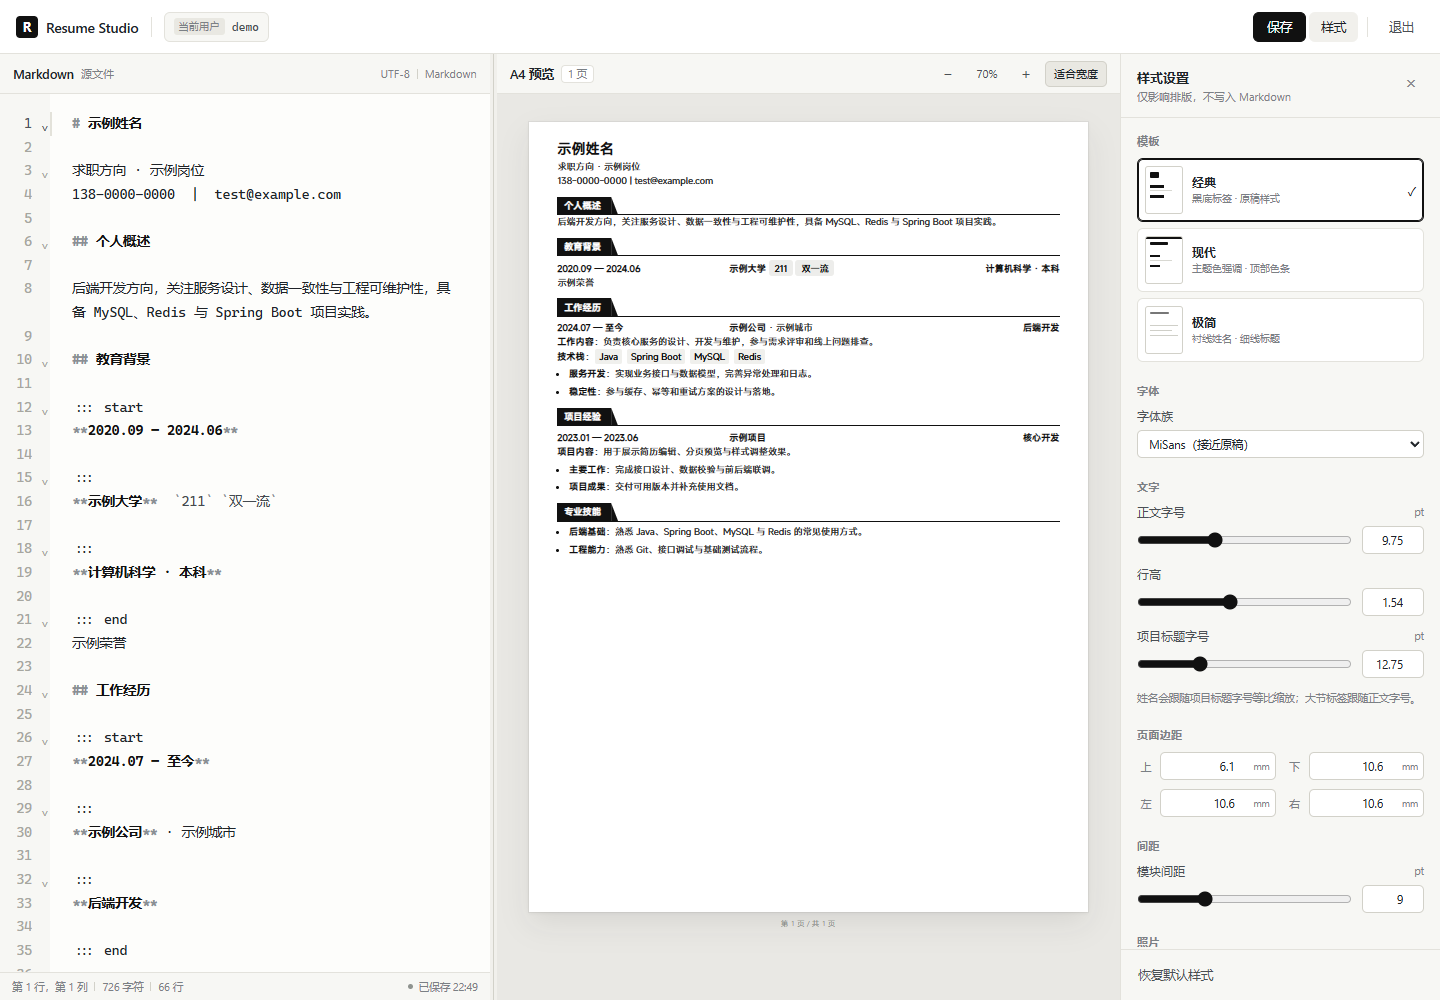
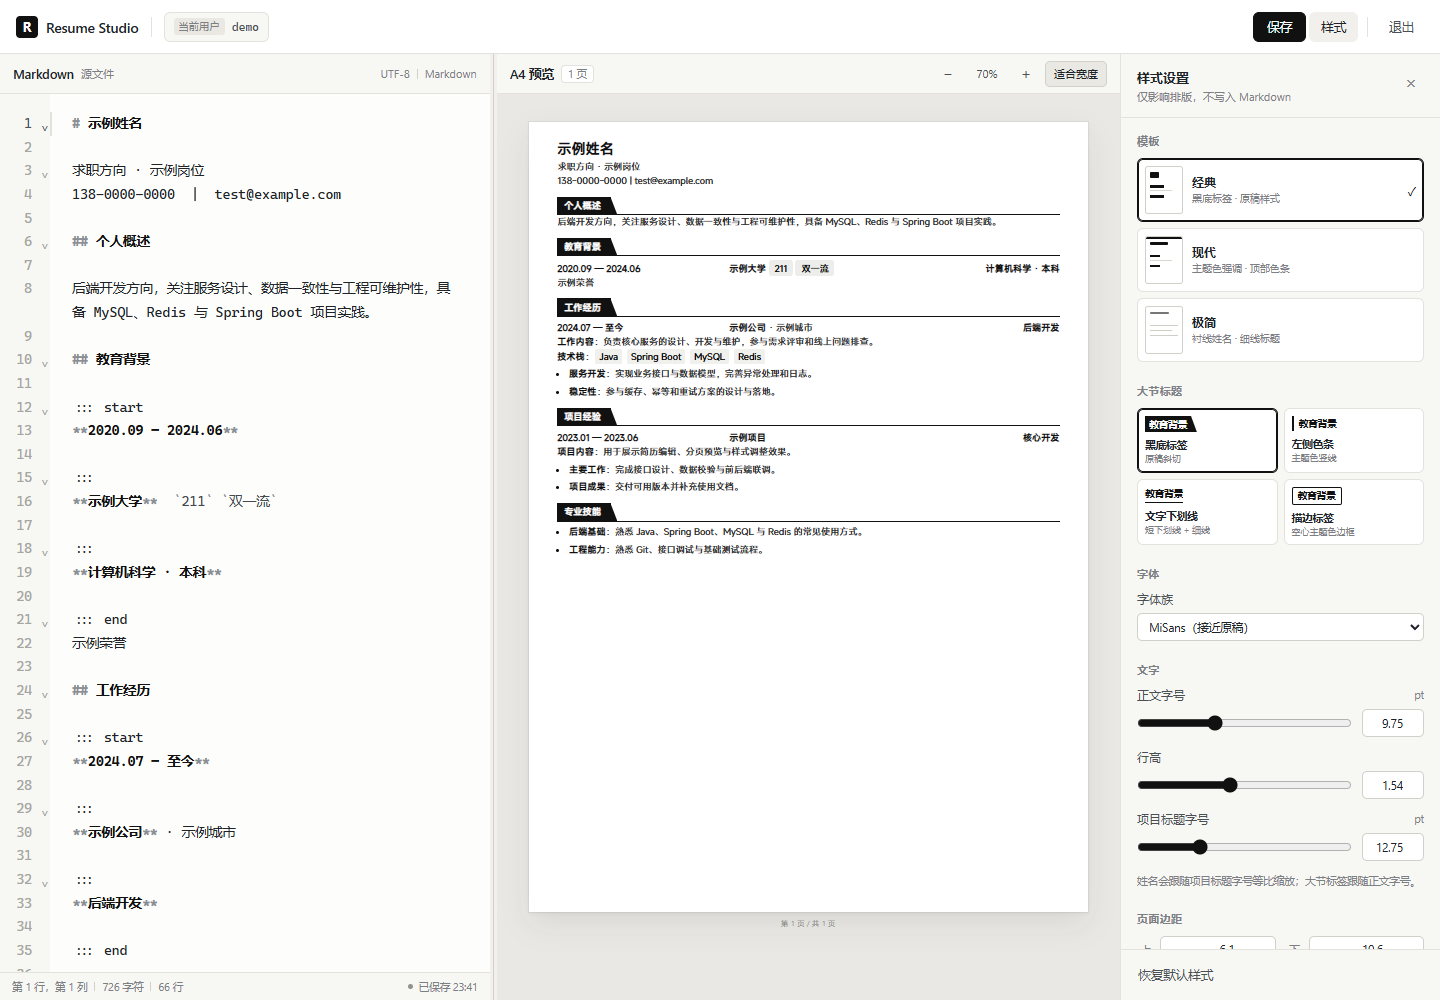
feat: add configurable section heading styles

Changed region(s): [[0.7812, 0.372, 1.0, 0.961], [0.9688, 0.62, 1.0, 0.651], [0.9375, 0.589, 0.9688, 0.62]]

diff --git a/src/resume/resume.css b/src/resume/resume.css
@@ -531,3 +531,142 @@
 .r-template--minimal .r-hr {
   border-top: 0.5pt solid #bbbbbb;
 }
+
+/* =========================================================
+   大节标题（## 教育背景 等）可切换样式
+   ========================================================= */
+
+/* 黑底斜切标签：文字块与斜切尾巴同色，并轻微重叠，消除 1px 接缝。 */
+.r-section-style--tab .r-section-tab {
+  display: inline-flex;
+  align-items: stretch;
+  max-width: 100%;
+  padding: 0;
+  border: 0;
+  background: transparent;
+  vertical-align: top;
+}
+
+.r-section-style--tab .r-section-tab-text {
+  display: block;
+  padding: 2.4pt 11pt 2.4pt 7.5pt;
+  background: var(--r-theme);
+  color: #ffffff;
+  font-size: var(--r-body);
+  font-weight: 700;
+  line-height: 1.5;
+  white-space: nowrap;
+}
+
+.r-section-style--tab .r-section-tab-tail {
+  display: block;
+  width: 7.5pt;
+  flex: 0 0 7.5pt;
+  margin-left: -0.8pt;
+  background: var(--r-theme);
+  clip-path: polygon(0 0, 100% 100%, 0 100%);
+}
+
+.r-section-style--tab .r-section-rule {
+  height: 0.75pt;
+  margin-top: -0.75pt;
+  background: var(--r-theme);
+  opacity: 1;
+}
+
+/* 左侧主题色竖线 + 轻分隔线 */
+.r-section-style--bar .r-section-tab {
+  display: block;
+  max-width: 100%;
+  padding-left: 7pt;
+  border-left: 3pt solid var(--r-theme);
+  background: transparent;
+}
+
+.r-section-style--bar .r-section-tab-text {
+  display: block;
+  padding: 0 0 1.8pt;
+  background: transparent;
+  color: #111111;
+  font-size: calc(var(--r-body) * 0.95);
+  font-weight: 700;
+  letter-spacing: 0.04em;
+  line-height: 1.45;
+  white-space: normal;
+}
+
+.r-section-style--bar .r-section-tab-tail {
+  display: none;
+}
+
+.r-section-style--bar .r-section-rule {
+  height: 0.6pt;
+  margin-top: 2.2pt;
+  background: var(--r-theme);
+  opacity: 0.22;
+}
+
+/* 文字短下划线 + 全宽细线 */
+.r-section-style--underline .r-section-tab {
+  display: block;
+  max-width: 100%;
+  border: 0;
+  background: transparent;
+}
+
+.r-section-style--underline .r-section-tab-text {
+  display: inline-block;
+  padding: 0 0 2.4pt;
+  border-bottom: 1.6pt solid var(--r-theme);
+  background: transparent;
+  color: #111111;
+  font-size: calc(var(--r-body) * 1.02);
+  font-weight: 700;
+  letter-spacing: 0.02em;
+  line-height: 1.4;
+  white-space: normal;
+}
+
+.r-section-style--underline .r-section-tab-tail {
+  display: none;
+}
+
+.r-section-style--underline .r-section-rule {
+  height: 0.5pt;
+  margin-top: 3pt;
+  background: #d8d8d2;
+  opacity: 1;
+}
+
+/* 空心主题色描边标签 */
+.r-section-style--outline .r-section-tab {
+  display: block;
+  max-width: 100%;
+  border: 0;
+  background: transparent;
+}
+
+.r-section-style--outline .r-section-tab-text {
+  display: inline-block;
+  padding: 1.7pt 8pt 1.9pt;
+  border: 0.9pt solid var(--r-theme);
+  border-radius: 2pt;
+  background: transparent;
+  color: var(--r-theme);
+  font-size: calc(var(--r-body) * 0.9);
+  font-weight: 700;
+  letter-spacing: 0.06em;
+  line-height: 1.4;
+  white-space: normal;
+}
+
+.r-section-style--outline .r-section-tab-tail {
+  display: none;
+}
+
+.r-section-style--outline .r-section-rule {
+  height: 0.5pt;
+  margin-top: 4pt;
+  background: var(--r-theme);
+  opacity: 0.18;
+}

diff --git a/src/resume/style.ts b/src/resume/style.ts
@@ -10,6 +10,8 @@ export type PhotoShape = "square" | "rounded" | "circle";
 
 export type TemplateId = "classic" | "modern" | "minimal";
 
+export type SectionStyleId = "tab" | "bar" | "underline" | "outline";
+
 export const TEMPLATE_OPTIONS: Array<{
   id: TemplateId;
   label: string;
@@ -20,8 +22,20 @@ export const TEMPLATE_OPTIONS: Array<{
   { id: "minimal", label: "极简", note: "衬线姓名 · 细线标题" },
 ];
 
+export const SECTION_STYLE_OPTIONS: Array<{
+  id: SectionStyleId;
+  label: string;
+  note: string;
+}> = [
+  { id: "tab", label: "黑底标签", note: "原稿斜切" },
+  { id: "bar", label: "左侧色条", note: "主题色竖线" },
+  { id: "underline", label: "文字下划线", note: "短下划线 + 细线" },
+  { id: "outline", label: "描边标签", note: "空心主题色边框" },
+];
+
 export interface StyleConfig {
   template: TemplateId;
+  sectionStyle: SectionStyleId;
   /** 正文字号，pt */
   bodySize: number;
   /** 行高倍数 */
@@ -74,6 +88,7 @@ export const FONT_OPTIONS: Array<{ id: FontId; label: string; note?: string }> =
 
 export const DEFAULT_STYLE: StyleConfig = {
   template: "classic",
+  sectionStyle: "tab",
   bodySize: 9.75,
   lineHeight: 1.54,
   headingSize: 12.75,
@@ -117,6 +132,11 @@ export function normalizeStyle(input: unknown): StyleConfig {
   )
     ? (source.template as TemplateId)
     : DEFAULT_STYLE.template;
+  const sectionStyle = SECTION_STYLE_OPTIONS.some(
+    (option) => option.id === source.sectionStyle,
+  )
+    ? (source.sectionStyle as SectionStyleId)
+    : DEFAULT_STYLE.sectionStyle;
   const color =
     typeof source.themeColor === "string" &&
     /^#[0-9a-f]{6}$/i.test(source.themeColor)
@@ -165,6 +185,7 @@ export function normalizeStyle(input: unknown): StyleConfig {
 
   return {
     template,
+    sectionStyle,
     bodySize: round(clamp(num(source.bodySize, DEFAULT_STYLE.bodySize), 7.5, 14), 0.25),
     lineHeight: round(
       clamp(num(source.lineHeight, DEFAULT_STYLE.lineHeight), 1.15, 2.2),

diff --git a/src/components/StylePanel.tsx b/src/components/StylePanel.tsx
@@ -4,6 +4,7 @@ import {
   FONT_OPTIONS,
   PAGE_HEIGHT_MM,
   PAGE_WIDTH_MM,
+  SECTION_STYLE_OPTIONS,
   TEMPLATE_OPTIONS,
   type StyleConfig,
 } from "../resume/style";
@@ -252,6 +253,40 @@ export function StylePanel({
                       ✓
                     </span>
                   ) : null}
+                </button>
+              );
+            })}
+          </div>
+        </section>
+
+        <section className="style-group">
+          <h3 className="style-group-title">大节标题</h3>
+          <div
+            className="section-style-grid"
+            role="radiogroup"
+            aria-label="大节标题样式"
+          >
+            {SECTION_STYLE_OPTIONS.map((option) => {
+              const active = style.sectionStyle === option.id;
+              return (
+                <button
+                  type="button"
+                  key={option.id}
+                  role="radio"
+                  aria-checked={active}
+                  className={`section-style-card${active ? " is-active" : ""}`}
+                  onClick={() => onChange({ sectionStyle: option.id })}
+                >
+                  <span
+                    className={`section-style-sample section-style-sample--${option.id}`}
+                    aria-hidden="true"
+                  >
+                    教育背景
+                  </span>
+                  <span className="section-style-text">
+                    <span className="section-style-name">{option.label}</span>
+                    <span className="section-style-note">{option.note}</span>
+                  </span>
                 </button>
               );
             })}

diff --git a/src/styles/app.css b/src/styles/app.css
@@ -852,6 +852,88 @@ body.is-dragging-photo * {
   font-size: 12px;
 }
 
+.section-style-grid {
+  display: grid;
+  grid-template-columns: 1fr 1fr;
+  gap: 6px;
+}
+
+.section-style-card {
+  display: flex;
+  flex-direction: column;
+  align-items: flex-start;
+  gap: 6px;
+  min-width: 0;
+  padding: 7px;
+  border: 1px solid var(--border);
+  border-radius: 6px;
+  background: #ffffff;
+  text-align: left;
+}
+
+.section-style-card:hover {
+  background: var(--surface-subtle);
+}
+
+.section-style-card.is-active {
+  border-color: var(--accent);
+  box-shadow: inset 0 0 0 1px var(--accent);
+}
+
+.section-style-sample {
+  display: inline-block;
+  overflow: hidden;
+  max-width: 100%;
+  color: #111111;
+  font-family: var(--ui-font);
+  font-size: 9.5px;
+  font-weight: 600;
+  line-height: 1.4;
+  white-space: nowrap;
+}
+
+.section-style-sample--tab {
+  padding: 1.5px 10px 1.5px 4px;
+  background: #111111;
+  color: #ffffff;
+  clip-path: polygon(0 0, calc(100% - 6px) 0, 100% 100%, 0 100%);
+}
+
+.section-style-sample--bar {
+  padding: 1px 4px 1px 5px;
+  border-left: 2px solid #111111;
+}
+
+.section-style-sample--underline {
+  padding-bottom: 1.5px;
+  border-bottom: 1.4px solid #111111;
+}
+
+.section-style-sample--outline {
+  padding: 1px 5px 1.5px;
+  border: 1px solid #111111;
+  border-radius: 2px;
+}
+
+.section-style-text {
+  display: flex;
+  flex-direction: column;
+  gap: 1px;
+  min-width: 0;
+}
+
+.section-style-name {
+  color: var(--text);
+  font-size: 10.5px;
+  font-weight: 600;
+}
+
+.section-style-note {
+  color: var(--text-3);
+  font-size: 9px;
+  line-height: 1.3;
+}
+
 .field {
   display: flex;
   flex-direction: column;

diff --git a/src/components/PreviewPane.tsx b/src/components/PreviewPane.tsx
@@ -215,7 +215,7 @@ export function PreviewPane({
               style={{ zoom: zoom / 100 } as CSSProperties}
             >
               <div
-                className={`preview-pages r-template--${style.template}`}
+                className={`preview-pages r-template--${style.template} r-section-style--${style.sectionStyle}`}
                 ref={pagesRef}
                 style={cssVars}
                 onPointerDown={handlePhotoPointerDown}
@@ -248,7 +248,7 @@ export function PreviewPane({
       </div>
 
       <div className="preview-measure" aria-hidden="true">
-        <div className={`r-pages r-template--${style.template}`} style={cssVars}>
+        <div className={`r-pages r-template--${style.template} r-section-style--${style.sectionStyle}`} style={cssVars}>
           <div className="r-measure-inner" ref={measureRef}>
             <ResumeFlow blocks={blocks} style={style} photoSrc={photoSrc} />
           </div>

diff --git a/src/resume/ResumeBlocks.tsx b/src/resume/ResumeBlocks.tsx
@@ -173,7 +173,7 @@ export function ResumePages({
 }: ResumePagesProps) {
   return (
     <div
-      className={`r-pages r-template--${style.template}`}
+      className={`r-pages r-template--${style.template} r-section-style--${style.sectionStyle}`}
       ref={pagesRef}
       style={styleToCssVars(style) as CSSProperties}
     >

diff --git a/README.md b/README.md
@@ -33,6 +33,7 @@
 ### 样式与模板
 
 - 经典、现代、极简三套可切换模板。
+- 四种大节标题样式：黑底标签、左侧色条、文字下划线、描边标签。
 - 正文字号、行高、项目标题字号、页边距、模块间距。
 - 字体族（MiSans、微软雅黑、Noto Sans SC、等线、宋体、系统无衬线）。
 - 主题颜色、模块分隔线开关。
@@ -225,6 +226,15 @@ SEED_USERS=alice:一个强密码,bob:另一个强密码
 
 模板只改变版式；字号、行高、边距、字体、主题色、照片位置与尺寸仍然独立生效。
 
+### 大节标题样式
+
+在「样式 → 大节标题」中可独立于模板切换四种 `##` 标题样式：
+
+- **黑底标签**：原稿风格的黑底白字 + 右侧斜切尾巴；尾巴与文字块重叠 0.8pt，消除接缝。
+- **左侧色条**：主题色竖线 + 标题文字，下方为轻分隔线。
+- **文字下划线**：标题文字下方短下划线，再配一条全宽细线。
+- **描边标签**：主题色空心圆角标签，适合更轻的版面。
+
 ![样式面板](docs/ui-style-panel.png)
 
 ## 样式配置
@@ -232,6 +242,7 @@ SEED_USERS=alice:一个强密码,bob:另一个强密码
 | 项目 | 默认值 |
 | --- | --- |
 | 模板 | 经典 / 现代 / 极简（默认经典） |
+| 大节标题 | 黑底标签 / 左侧色条 / 文字下划线 / 描边标签（默认黑底标签） |
 | 纸张 | A4，210 mm × 297 mm |
 | 上边距 | 6.1 mm |
 | 下/左/右边距 | 10.6 mm |
